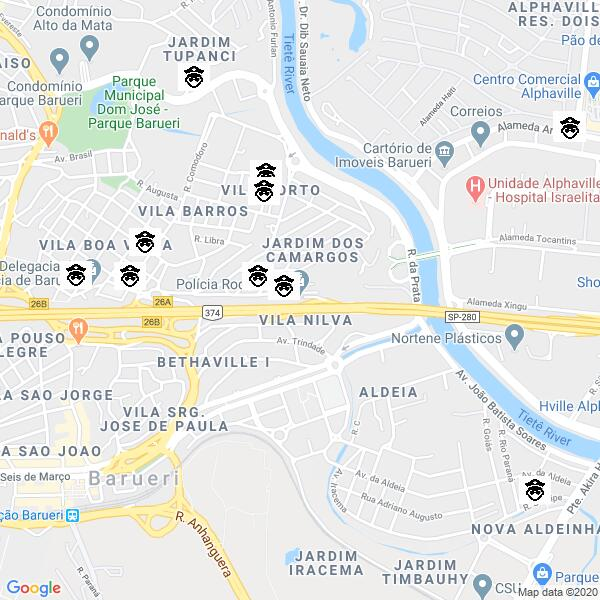
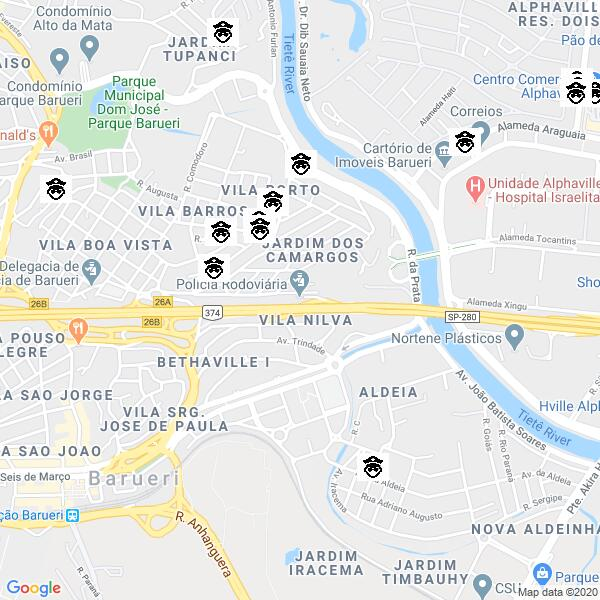
botflow

diff --git a/maps/app.py b/maps/app.py
@@ -2,26 +2,28 @@ from flask import Flask, request, session
 from datetime import datetime, timedelta
 from twilio.twiml.messaging_response import MessagingResponse
 import re
+from main import flow
+from findmyfriends import find_friends
+from language import googleMapsPlaces, positives, negatives, common_words, road_words, servicesDict
+from message_reply import welcome_text, thanks_for_sharing, thanks_fornot_sharing, map_reply, request_location_message
+
 
 SECRET_KEY = 'chapa zap key'
 app = Flask(__name__)
 app.config.from_object(__name__)
+MEDIA_URL ="https://ccr-hack-2020.s3.us-east-2.amazonaws.com/abastecimento"
 
 
 def find_requests(msg_arr):
-    dici = {}
-    dici['eat'] = {'comer', 'comida', 'fome', 'food', 'jantar', 'almoco', 'almoço', 'lanche', 'lanchar', 'lanchinho', 'comidinha', 'rango', 'alimentacao', 'come'}
-    dici['sleep'] = {'sono', 'dormir', 'descansar', 'sleep', 'deitar', 'parar', 'dormidinha', 'soneca', 'cama'}
-    dici['bathroom'] = {'banheiro', 'mijar', 'banho', 'limpar', 'lavar'}
-    dici['help'] = {'ajuda', 'sos', 'suporte', 'socorro', 'acidente', 'perigo', 'seguranca', 'atendimento'}
     match_lst = []
-    for key,value in dici.items():
+    for key,value in servicesDict.items():
         for word in msg_arr:
             if word in value:
-                match_lst.append(str(word))
+                match_lst.append(str(key))
     return match_lst
 
 
+# Find street name from message
 def find_street_name(road_index, msg_arr):
     road_name = ''
     if road_index > 0:
@@ -31,34 +33,45 @@ def find_street_name(road_index, msg_arr):
             else:
                 road_name = road_name + ' ' + msg_arr[i]
     else:
-        common_words = {'dentro', 'perto', 'estou', 'longe', 'aqui', 'fora', 'mim', 'voce', 'sabe'}
-        for word in msg_arr:
-            if word not in common_words and word.isalpha():
-                return road_name
+        so_far = ''
+        for word in (msg_arr):
+            # case BR-xxx
+            if re.match('(BR|BR-|Br-|bR-|br|br-)[0-9][0-9][0-9]', word):
+                return word
+        for i, word in enumerate(msg_arr):
+            if word.isdigit() or re.match('(KM|km|Km|Kilometro|KILOMETRO)', msg_arr[i]):
+                return so_far
+            elif word not in common_words:
+                so_far = so_far + word
+        return so_far
 
 
+#final direction to restaurant
+def direction_reply(sharing, selected):
+    friend_count = find_friends(selected)
+    if sharing:
+        return "Você selecionou o seguinte estabelecimento: " + str(selected) + " Tem " + str(friend_count) + \
+               " chapas do Seu Brequin lá. Se estiver se sentindo sozinho, tente encontrá-los"
+    return "Você selecionou o seguinte estabelecimento: " + str(selected)
+
+
+# Get location from user message
 def get_location(msg_arr):
     location_dict = {}
     for i, word in enumerate(msg_arr):
         if word.isdigit():
             location_dict['km'] = word
-        #case BR-xxx
-        elif re.match('(BR|BR-|Br-|bR-|br|br-)[0-9]*3', word):
-            location_dict['rodoviaria'] = msg_arr[i]
-    road_type = {'rodoviária', 'rodoviaria', 'rodovia', 'rua', 'estrada', 'avenida', 'rodov', 'estr'}
     road_index = -1
     for ind, word in enumerate(msg_arr):
-        if word in road_type:
+        if word in road_words:
             if ind < (len(msg_arr)-1):
                     road_index = ind + 1
-    if not location_dict.get('rodoviaria', ''):
-        location_dict['rodoviaria'] = find_street_name(road_index, msg_arr)
+    location_dict['rodovia'] = find_street_name(road_index, msg_arr)
     return location_dict
 
 
+# Location sharing preferences
 def share_preference(msg_arr):
-    positives = {'sim', 'quero', 'positivo', 's', 'yes', 'siim', 'pode'}
-    negatives = {'não', 'nao', 'nada', 'errado', 'talvez', 'naao', 'naoo', 'N'}
     for word in msg_arr:
         if word in negatives:
             return False
@@ -67,6 +80,17 @@ def share_preference(msg_arr):
     return False
 
 
+def re_init_session(session):
+    session['step'] = 0
+    session['loc'] = {}
+    session['req'] = ''
+    session['sharing'] = False
+    session['first'] = [False, False]
+    session['selected'] = ''
+    session['dicas'] = {}
+
+
+# Main rote
 @app.route("/", methods=['POST'])
 def sms_reply():
     msg = request.form.get('Body').lower()
@@ -74,58 +98,74 @@ def sms_reply():
     phone_no = request.form.get('From')
     reply = ''
     match_lst = []
-    #Info sobre a conversa
+    #Conversation data
     step = session.get('step', 0)
-    first = session.get('first', [True, True])
+    first = session.get('first', [True, True]) #first and second contact messages missing
     req = session.get('req', '')
     loc = session.get('loc', {})
+    dicas = session.get('dicas', {})
+    selected = session.get('selected', '')
     sharing = session.get('share', False)
-    #Primeira vez contactando o Seu Brequim
+    #First contact message
     if first[0]:
-        reply = "Prazer! Eu o Seu Brequim! \nVou te dar dicas dos melhores " \
-                "lugares para comer, se higienizar e descansar com baixo custo na estrada. Também posso" \
-                "te avisar quando tiverem amigos caminhoneiros por perto. Se você quiser compartilhar sua localizacao com amigos," \
-                "responda 'sim', caso contrario responda 'não' e só te dou dicas"
+        reply = welcome_text
         first = [False, True]
-        #Case respondeu com preferência.
+    #Second contact message
     elif (not first[0]) and first[1]:
         sharing = share_preference(msg_arr)
         if sharing == True:
-            reply = 'Obrigada por compartilhar sua localizacao. Você nunca mais estará sozinho na estrada!\n' \
-                    'Se estiver procurando servicos de qualidade na estrada, ' \
-                    'é só me pedir o que você quer (comida, parada, amigos, banho) e eu te ajudo!'
+            reply = thanks_for_sharing
         elif sharing == False:
-            reply = 'Sem problemas, não vou compartilhar sua localizacao.\n ' \
-                    ' Se estiver procurando servicos de qualidade na estrada, ' \
-                    'é só me pedir o que você quer (comida, parada, amigos, banho) e eu te ajudo!'
+            reply = thanks_fornot_sharing
         first = [False, False]
-    #Cliente reconhecido
+    #Returning client
     else:
-        if len(req) == 0 or len(loc)==0:
-        # Case usuario pediu serviço
+        if msg_arr[0]=="0":
+            re_init_session(session)
+            reply ="Sem problemas, vou recomeçar essa sessão"
+            resp = MessagingResponse()
+            msg = resp.message(reply)
+            msg.media(SEUBRE)
+            return str(resp)
+        if len(req) == 0:
+        #Service requested
             match_lst = find_requests(msg_arr)
             if len(match_lst) > 0:
                 req = match_lst[0]
-                reply = "Entendi, você quer " + match_lst[0] + " ! Por gentileza, me informe a rodoviaria e km onde você se encontra"
+                reply = request_location_message(match_lst[0])
                 step += 1
-            elif step > 0 and len(req)==0:
-                reply = "Não entendi o que você quer"
+            elif step > 0 and len(req) == 0:
+                reply = "Não entendi o que você quer. Tente um pedido"
+        #Greet returning client
         if step == 0:
             reply = "Oi meu amigo, bom te ver por aqui. O que você procura?"
             step += 1
-        elif len(req) > 0 and len(reply) == 0:
+        elif len(req) > 0 and len(reply) == 0 and len(loc) == 0:
+            #Location provided
             loc = get_location(msg_arr)
-            street_name = loc.get('rodoviaria', 0)
+            street_name = loc.get('rodovia', 0)
             km = loc.get('km', 0)
             if not km or not street_name:
-                reply = "Não encontrei essa localizacao"
-            else:
-                reply = "Aqui está " + str(req) + " na rodoviaria " + str(street_name) + " e no Km " + str(km) + ". Obrigada pela confianca!"
-                step = 0
+                reply = "Não encontrei essa localizacao. Tente novamente, ou digite 0 para re iniciar a conversa"
                 loc = {}
-                req = ''
-                sharing = False
-                first = [True, True]
+            else:
+                google_places = googleMapsPlaces.get(req)
+                origem = "rodovia " + str(street_name) + " km " + str(km)
+                lst = flow(origem, google_places)
+                dicas = lst
+                reply = map_reply(req) + str(lst)
+                step += 1
+        elif len(loc)>0 and len(req)>0:
+            selected = ''
+            for word in msg_arr:
+                if word.isdigit():
+                    selected = dicas.get(word, '')
+                    if len(selected) == 0:
+                        reply = "Esse número não está no mapa! Digite algum número do mapa, ou 0 para finalizar"
+                    else:
+                        reply = direction_reply(sharing, selected)
+                        # session ended
+                        re_init_session(session)
     # Create reply
     resp = MessagingResponse()
     resp.message(reply)
@@ -134,6 +174,8 @@ def sms_reply():
     session['loc'] = loc
     session['first'] = first
     session['sharing'] = sharing
+    session['dicas'] = dicas
+    session['selected'] = selected
     return str(resp)
 
 

diff --git a/maps/message_reply.py b/maps/message_reply.py
@@ -1,0 +1,46 @@
+welcome_text = " Prazer, eu sou o Seu Brequim! " \
+                "Estou aqui para te dar ajudar a encontrar as paradas e serviços de **baixo " \
+               "custo** e **alta qualidade** nas estradas. Além disso, se você se sentir em perigo," \
+               " me mande um **SOS** que te ajudo a encontrar suporte. Também posso te avisar quando tiver amigos caminhoneiros por perto. Se você quiser" \
+                "compartilhar a sua localização com outros caminhoneiros, para fazer" \
+               "parte da **comunidade Seu Brequin**, responda “sim”, caso contrário responda “não” e " \
+                "só te dou dicas."
+
+thanks_for_sharing = 'Obrigada por compartilhar sua localização. ' \
+                    '**Você nunca mais estará sozinho na estrada!**' \
+                    'Se estiver procurando serviços de qualidade na estrada é só perguntar ' \
+                    'por **restaurantes**, **paradas**, **banheiros**, **SOS**, **serviços médicos** e eu te ajudo!'
+
+thanks_fornot_sharing = 'Tudo bem amigo, pode deixar que não vou compartilhar sua localizacao. ' \
+                    'Se estiver procurando serviços de qualidade na estrada é só perguntar ' \
+                    'por **restaurantes**, **paradas**, **banheiros**, **SOS**, **serviços médicos** e eu te ajudo!'
+
+
+def map_reply(req):
+    key_word = ''
+    if req == 'eat':
+        key_word = 'comer'
+    elif req == 'help':
+        key_word = 'conseguir ajuda'
+    elif req =='bathroom':
+        key_word = 'ir ao banheiro'
+    elif req == 'sleep':
+        key_word = 'descansar'
+    return " Nessa foto você vê um mapa com os melhores lugares para " + key_word + " Em" \
+                        " ouro está a melhor qualidade e preço" \
+                       "Se quiser mais informações sobre algum lugar " \
+                       "é só digitar o *numero* ao lado do ponto no mapa."
+
+
+# Location request
+def request_location_message(request):
+    key_word = ''
+    if request == 'eat':
+        key_word = 'comer'
+    elif request == 'sleep':
+        key_word ='parar e descansar sem custo'
+    elif request =='bathroom':
+        key_word = 'banheiros gratuitos '
+    elif request == 'help':
+        key_word = 'pedir ajuda'
+    return "Me diga a rodovia e o km que você está, assim posso te enviar os melhores lugares para " + key_word + " perto de você"

diff --git a/maps/language.py b/maps/language.py
@@ -1,0 +1,21 @@
+# Defines words to predict request
+
+googleMapsPlaces = {
+    'eat': ['meal_delivery', 'meal_takeaway', 'restaurant', 'bakery', 'cafe', 'supermarket'],
+    'sleep': ['bus_station', 'parking', 'transit_station', 'train_station', 'gas_station'],
+    'bathroom': ['cafe', 'restaurant'],
+    'help': ['fire_station', 'police' ]
+}
+
+
+positives = {'sim', 'quero', 'positivo', 's', 'yes', 'siim', 'pode'}
+negatives = {'não', 'nao', 'nada', 'errado', 'talvez', 'naao', 'naoo', 'N'}
+common_words = {'dentro', 'perto', 'estou', 'longe', 'aqui', 'fora', 'mim', 'voce', 'sabe'}
+road_words = {'rodoviária', 'rodoviaria', 'rodovia', 'rua', 'estrada', 'avenida', 'rodov', 'estr'}
+
+servicesDict = {
+'eat' : {'comer', 'comida', 'alimentação', 'restaurantes', 'alimentacao', 'fome', 'food', 'jantar', 'almoco', 'almoço', 'almoçar', 'lanche', 'lanchar', 'lanchinho', 'comidinha', 'rango', 'alimentacao', 'come'},
+'sleep': {'sono', 'paradas', 'dormir', 'parada', 'descansar', 'sleep', 'deitar', 'parar', 'dormidinha', 'soneca', 'cama'},
+'bathroom' : {'banheiros', 'banheiro', 'mijar', 'banho', 'limpar', 'lavar'},
+'help' : {'ajuda', 'sos', 'suporte', 'socorro', 'acidente', 'perigo', 'seguranca', 'atendimento'}
+}

diff --git a/maps/findmyfriends.py b/maps/findmyfriends.py
@@ -1,0 +1,11 @@
+friends_dict = {
+    'Pizzaria Sportello' : ['user0', 'user1', 'user2'],
+    'Armazém da Pizza' : ['user3', 'user4', 'user5'],
+    'House of Pizza' : ['user6', 'user7', 'user8'],
+    'Papitus Burguer' : ['user 9', 'useer 10']
+}
+
+
+def find_friends(selection):
+    if selection in friends_dict:
+        return len(friends_dict.get(selection))
